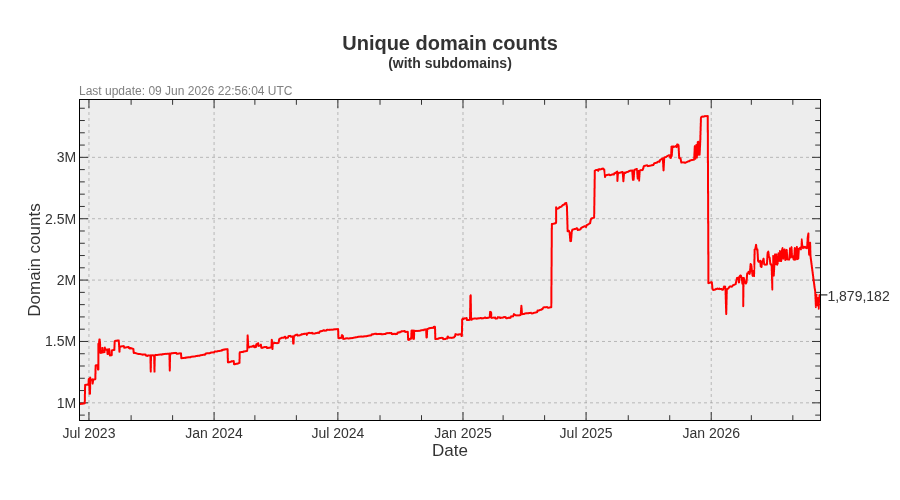
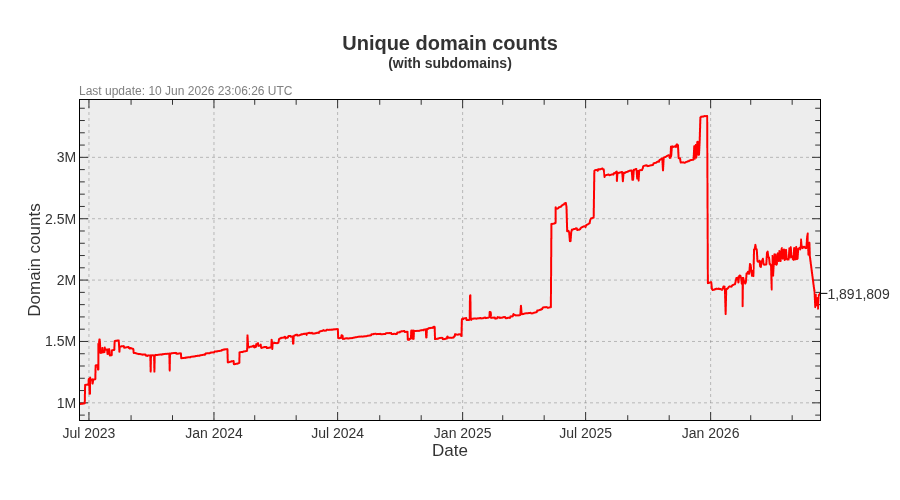
Update pages

diff --git a/README.md b/README.md
@@ -3,22 +3,22 @@ A blocklist file for blocking ads, trackers and malware domains.
 
[1 lines of base64/hex data omitted]
 
-- Unique domains: 1,879,182
-- Without subdomains: 1,226,617
-- Last update: 09 Jun 2026 22:56:04 UTC
-- Version: 2026.06.09.01
+- Unique domains: 1,891,809
+- Without subdomains: 1,237,122
+- Last update: 10 Jun 2026 23:06:26 UTC
+- Version: 2026.06.10.01
 
 
 ## Downloads:
 
 | Format             | Domain count      | Download Link |
 |------------------ | -----------------|-------------|
-| *Adblock Plus*     | 1,226,617 | [bad-hosts-abp](https://dl.cenk.app/bad-hosts/bad-hosts-abp) |
-| *Wildcard domains* | 1,226,617 | [bad-hosts-wildcard](https://dl.cenk.app/bad-hosts/bad-hosts-wildcard) |
-| *dnsmasq*          | 1,226,617 | [bad-hosts-dnsmasq](https://dl.cenk.app/bad-hosts/bad-hosts-dnsmasq) |
-| *hosts*            | 1,879,182 | [hosts](https://dl.cenk.app/bad-hosts/hosts) |
-| *hosts (ipv6)*     | 1,879,182 | [hosts-ipv6](https://dl.cenk.app/bad-hosts/hosts-ipv6) |
-| *Plain domains*    | 1,879,182 | [bad-hosts-domains](https://dl.cenk.app/bad-hosts/bad-hosts-domains) |
+| *Adblock Plus*     | 1,237,122 | [bad-hosts-abp](https://dl.cenk.app/bad-hosts/bad-hosts-abp) |
+| *Wildcard domains* | 1,237,122 | [bad-hosts-wildcard](https://dl.cenk.app/bad-hosts/bad-hosts-wildcard) |
+| *dnsmasq*          | 1,237,122 | [bad-hosts-dnsmasq](https://dl.cenk.app/bad-hosts/bad-hosts-dnsmasq) |
+| *hosts*            | 1,891,809 | [hosts](https://dl.cenk.app/bad-hosts/hosts) |
+| *hosts (ipv6)*     | 1,891,809 | [hosts-ipv6](https://dl.cenk.app/bad-hosts/hosts-ipv6) |
+| *Plain domains*    | 1,891,809 | [bad-hosts-domains](https://dl.cenk.app/bad-hosts/bad-hosts-domains) |
 
 ## Domain count history
 ### With subdomains